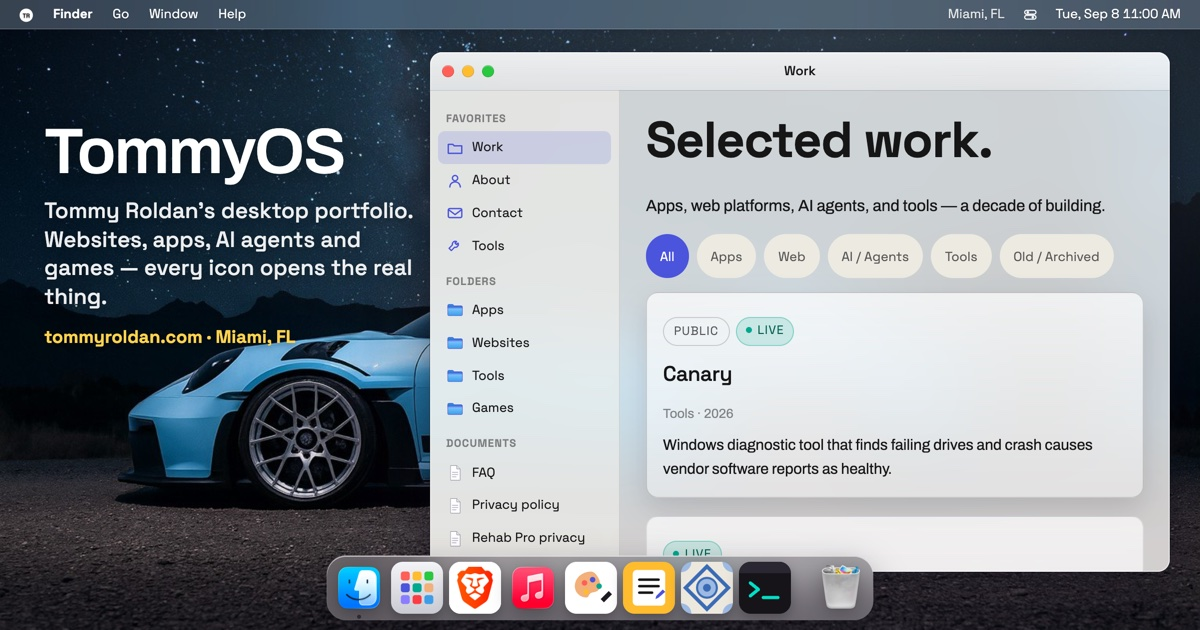
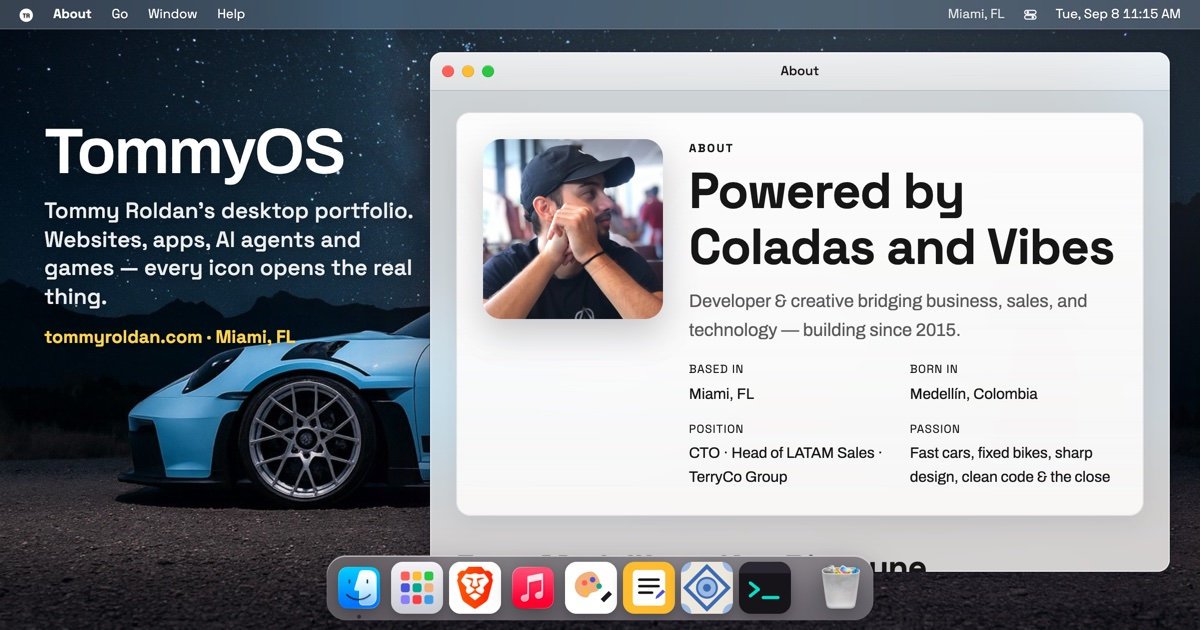
OG card: About window open so the card shows Tommy

diff --git a/site/faq/index.html b/site/faq/index.html
@@ -4,7 +4,7 @@
 <meta name="description" content="Cost, timelines, Shopify, apps, AI agents, Spanish — the questions people ask before starting a project with a Miami web developer.">
 <meta property="og:type" content="website"><meta property="og:site_name" content="TommyOS — Tommy Roldan">
 <meta property="og:title" content="FAQ — Working with Tommy Roldan"><meta property="og:description" content="Cost, timelines, Shopify, apps, AI agents, Spanish — the questions people ask before starting a project with a Miami web developer.">
-<meta property="og:image" content="https://tommyroldan.com/assets/og/tommyos.jpg"><meta property="og:image:width" content="1200"><meta property="og:image:height" content="630"><meta property="og:image:alt" content="TommyOS — Tommy Roldan’s desktop portfolio: a Mac-style desktop with a Work window open and the dock"><meta property="og:url" content="https://tommyroldan.com/faq/">
+<meta property="og:image" content="https://tommyroldan.com/assets/og/tommyos.jpg"><meta property="og:image:width" content="1200"><meta property="og:image:height" content="630"><meta property="og:image:alt" content="TommyOS — Tommy Roldan’s desktop portfolio: a Mac-style desktop with the About window open, Tommy’s photo, and the dock"><meta property="og:url" content="https://tommyroldan.com/faq/">
 <meta name="twitter:card" content="summary_large_image"><meta name="twitter:title" content="FAQ — Working with Tommy Roldan"><meta name="twitter:description" content="Cost, timelines, Shopify, apps, AI agents, Spanish — the questions people ask before starting a project with a Miami web developer."><meta name="twitter:image" content="https://tommyroldan.com/assets/og/tommyos.jpg">
 <script type="application/ld+json">{"@context": "https://schema.org", "@type": "FAQPage", "mainEntity": [{"@type": "Question", "name": "Who builds websites for small businesses in Miami?", "acceptedAnswer": {"@type": "Answer", "text": "I'm Tommy Roldan, a web developer and designer based in Miami, Florida. I build websites, e-commerce stores, mobile apps, and AI agents for startups and small businesses, and I've been shipping production work since 2015."}}, {"@type": "Question", "name": "What kind of projects do you take on?", "acceptedAnswer": {"@type": "Answer", "text": "Four kinds: fast marketing websites, e-commerce and Shopify storefronts, iOS and Android apps, and custom AI agents and workflow automation. If it lives on the web or in an app store, it is probably in scope."}}, {"@type": "Question", "name": "How much does a website cost?", "acceptedAnswer": {"@type": "Answer", "text": "It depends on scope, because a marketing site, a Shopify storefront, and a custom web app are very different builds. Tell me what you have in mind through the contact form and you will get a straight answer on scope and cost before anything starts."}}, {"@type": "Question", "name": "How long does it take to build a website?", "acceptedAnswer": {"@type": "Answer", "text": "Timeline follows scope and how quickly content and feedback come back. A focused marketing site moves faster than an e-commerce build or a custom application. Share your deadline when you reach out and I will tell you honestly whether it is realistic."}}, {"@type": "Question", "name": "Do you build Shopify stores?", "acceptedAnswer": {"@type": "Answer", "text": "Yes. I build and customize Shopify storefronts, including custom theme work, product and checkout flows, and the brand design around them. Dolce Vita Supplements is a live Shopify build of mine."}}, {"@type": "Question", "name": "Do you build mobile apps for iOS and Android?", "acceptedAnswer": {"@type": "Answer", "text": "Yes, both from a single codebase using React Native and Expo. Clear Care Dental is a full-stack dental benefits platform built this way, where members find in-network dentists, track plan usage, and book visits from one cross-platform app."}}, {"@type": "Question", "name": "What is an AI agent, and do you build them?", "acceptedAnswer": {"@type": "Answer", "text": "An AI agent is software that carries out multi-step work on its own instead of only answering a question, such as researching, calling APIs, and updating your systems. Yes, I build custom agents and workflow automation, including a voice agent that handles live phone conversations."}}, {"@type": "Question", "name": "Can you redesign or take over an existing website?", "acceptedAnswer": {"@type": "Answer", "text": "Yes, redesigns and rebuilds are a regular part of the work. NST Pharma and World Resort Rescue were both full redesigns of existing sites, rebuilt for structure, speed, and how they read on phones."}}, {"@type": "Question", "name": "Do you work with Spanish-speaking clients?", "acceptedAnswer": {"@type": "Answer", "text": "Yes. I am fluent in English and Spanish, so the whole project can run in either language, and this site is published in both. For Miami businesses serving bilingual customers, I can build the site that way too."}}, {"@type": "Question", "name": "Are you available for new projects?", "acceptedAnswer": {"@type": "Answer", "text": "Yes, I am currently taking on new projects. The fastest way to start is the contact form, where you can outline the project, the type of build, and your budget range."}}]}</script>
 <link href="https://fonts.googleapis.com/css2?family=Space+Grotesk:wght@400;500;700&family=Archivo:wght@400;500;600&display=swap" rel="stylesheet">

diff --git a/site/index.html b/site/index.html
@@ -13,7 +13,7 @@
 <meta name="description" content="TommyOS is Tommy Roldan’s portfolio as a desktop: websites, apps, Shopify stores, AI agents and games, every icon opening the real thing. Freelance Miami web developer, available for hire.">
 <meta property="og:type" content="website"><meta property="og:site_name" content="TommyOS — Tommy Roldan">
 <meta property="og:title" content="TommyOS — the desktop portfolio of Tommy Roldan"><meta property="og:description" content="A Mac-style desktop in the browser. Open the Work folder for websites, apps and AI agents built in Miami since 2015, play Lightwall or Trace, paint on the public wall. Every icon opens the real thing.">
-<meta property="og:image" content="https://tommyroldan.com/assets/og/tommyos.jpg"><meta property="og:image:width" content="1200"><meta property="og:image:height" content="630"><meta property="og:image:alt" content="TommyOS — Tommy Roldan’s desktop portfolio: a Mac-style desktop with a Work window open and the dock"><meta property="og:url" content="https://tommyroldan.com/">
+<meta property="og:image" content="https://tommyroldan.com/assets/og/tommyos.jpg"><meta property="og:image:width" content="1200"><meta property="og:image:height" content="630"><meta property="og:image:alt" content="TommyOS — Tommy Roldan’s desktop portfolio: a Mac-style desktop with the About window open, Tommy’s photo, and the dock"><meta property="og:url" content="https://tommyroldan.com/">
 <meta name="twitter:card" content="summary_large_image"><meta name="twitter:title" content="TommyOS — the desktop portfolio of Tommy Roldan"><meta name="twitter:description" content="A Mac-style desktop in the browser: websites, apps, AI agents and games by Tommy Roldan, Miami. Every icon opens the real thing."><meta name="twitter:image" content="https://tommyroldan.com/assets/og/tommyos.jpg">
 <script type="application/ld+json">{"@context": "https://schema.org", "@type": "Person", "name": "Tommy Roldan", "alternateName": "Tomas Roldan", "url": "https://tommyroldan.com", "image": "https://tommyroldan.com/images/tomcat.jpeg", "jobTitle": "Web Developer & Creative", "email": "mailto:troldan@terryco.com", "description": "Miami-based developer and builder shipping apps, web platforms, and AI agents — from dental healthtech to autonomous tools.", "address": {"@type": "PostalAddress", "addressLocality": "Miami", "addressRegion": "FL", "addressCountry": "US"}, "knowsAbout": ["Web Development", "React", "React Native", "AI Agents", "Node.js", "Product Design", "Strategic Sales", "E-commerce"], "sameAs": ["https://www.linkedin.com/in/tommy-roldan/", "https://github.com/TmasLove", "https://instagram.com/tomcat.png", "https://www.strava.com/athletes/14197229", "https://music.apple.com/profile/tmizle", "https://steamcommunity.com/id/shlumplord/"]}</script><script type="application/ld+json">{"@context": "https://schema.org", "@type": "WebSite", "name": "TommyOS", "alternateName": ["Tommy Roldan — Portfolio", "tommyroldan.com"], "url": "https://tommyroldan.com", "description": "Tommy Roldan’s portfolio presented as a desktop operating system in the browser.", "author": {"@type": "Person", "name": "Tommy Roldan"}}</script>
 <script type="application/ld+json">{"@context": "https://schema.org", "@type": "WebApplication", "name": "TommyOS", "url": "https://tommyroldan.com", "applicationCategory": "Portfolio", "operatingSystem": "Any (browser)", "browserRequirements": "Requires JavaScript", "offers": {"@type": "Offer", "price": "0", "priceCurrency": "USD"}, "image": "https://tommyroldan.com/assets/og/tommyos.jpg", "author": {"@type": "Person", "name": "Tommy Roldan"}, "featureList": ["Mac-style desktop with windows, dock, Launchpad and Spotlight", "iPhone-style home screen on phones", "Work folder: websites, apps, e-commerce and AI agents", "Games: Lightwall (light cycles), Brick Breaker, Meme Maker, Paint with Trace", "Public wall: paint and post without sign-up", "Free browser tools"]}</script><script type="application/ld+json">{"@context": "https://schema.org", "@type": "ProfessionalService", "name": "Tommy Roldan — Web Development & Design", "image": "https://tommyroldan.com/assets/og/tommyos.jpg", "url": "https://tommyroldan.com", "priceRange": "$$", "founder": {"@type": "Person", "name": "Tommy Roldan"}, "address": {"@type": "PostalAddress", "addressLocality": "Miami", "addressRegion": "FL", "addressCountry": "US"}, "areaServed": [{"@type": "City", "name": "Miami"}, {"@type": "AdministrativeArea", "name": "Florida"}, "Remote / Worldwide"], "serviceType": ["Web development", "React & React Native app development", "E-commerce and Shopify development", "AI agents and automation", "Web design"]}</script>

diff --git a/site/work/build-roldan/index.html b/site/work/build-roldan/index.html
@@ -5,7 +5,7 @@
 <meta name="description" content="Site for a family exterior construction and remodelling business, built to turn homeowner interest into booked work. Includes Pool Vision, an AI feature that lets a visitor picture the finished result on their own property, plus a CMS for the team to run it themselves.">
 <meta property="og:type" content="website"><meta property="og:site_name" content="TommyOS — Tommy Roldan">
 <meta property="og:title" content="Roldan Construction Group"><meta property="og:description" content="Site for a family exterior construction and remodelling business, built to turn homeowner interest into booked work. Includes Pool Vision, an AI feature that lets a visitor picture the finished result on their own property, plus a CMS for the team to run it themselves.">
-<meta property="og:image" content="https://tommyroldan.com/assets/og/tommyos.jpg"><meta property="og:image:width" content="1200"><meta property="og:image:height" content="630"><meta property="og:image:alt" content="TommyOS — Tommy Roldan’s desktop portfolio: a Mac-style desktop with a Work window open and the dock"><meta property="og:url" content="https://tommyroldan.com/work/build-roldan/">
+<meta property="og:image" content="https://tommyroldan.com/assets/og/tommyos.jpg"><meta property="og:image:width" content="1200"><meta property="og:image:height" content="630"><meta property="og:image:alt" content="TommyOS — Tommy Roldan’s desktop portfolio: a Mac-style desktop with the About window open, Tommy’s photo, and the dock"><meta property="og:url" content="https://tommyroldan.com/work/build-roldan/">
 <meta name="twitter:card" content="summary_large_image"><meta name="twitter:title" content="Roldan Construction Group"><meta name="twitter:description" content="Site for a family exterior construction and remodelling business, built to turn homeowner interest into booked work. Includes Pool Vision, an AI feature that lets a visitor picture the finished result on their own property, plus a CMS for the team to run it themselves."><meta name="twitter:image" content="https://tommyroldan.com/assets/og/tommyos.jpg">
 <script type="application/ld+json">{"@context": "https://schema.org", "@type": "CreativeWork", "name": "Roldan Group", "url": "https://tommyroldan.com/work/build-roldan/", "description": "Site for a family exterior construction and remodelling business, built to turn homeowner interest into booked work. Includes Pool Vision, an AI feature that lets a visitor picture the finished result on their own property, plus a CMS for the team to run it themselves.", "author": {"@type": "Person", "name": "Tommy Roldan", "url": "https://tommyroldan.com"}, "creator": {"@type": "Person", "name": "Tommy Roldan"}, "sameAs": "https://buildroldan.com", "mainEntityOfPage": "https://buildroldan.com"}</script>
 </head><body>

diff --git a/site/work/canary/index.html b/site/work/canary/index.html
@@ -5,7 +5,7 @@
 <meta name="description" content="Windows diagnostic tool that finds failing drives and crash causes vendor software reports as healthy. Reads the SMART counters other tools skip, explains every finding in plain English, and says &quot;could not verify&quot; rather than pretending a check passed.">
 <meta property="og:type" content="website"><meta property="og:site_name" content="TommyOS — Tommy Roldan">
 <meta property="og:title" content="Canary — Free Windows Diagnostic Tool"><meta property="og:description" content="Windows diagnostic tool that finds failing drives and crash causes vendor software reports as healthy. Reads the SMART counters other tools skip, explains every finding in plain English, and says &quot;could not verify&quot; rather than pretending a check passed.">
-<meta property="og:image" content="https://tommyroldan.com/assets/og/tommyos.jpg"><meta property="og:image:width" content="1200"><meta property="og:image:height" content="630"><meta property="og:image:alt" content="TommyOS — Tommy Roldan’s desktop portfolio: a Mac-style desktop with a Work window open and the dock"><meta property="og:url" content="https://tommyroldan.com/work/canary/">
+<meta property="og:image" content="https://tommyroldan.com/assets/og/tommyos.jpg"><meta property="og:image:width" content="1200"><meta property="og:image:height" content="630"><meta property="og:image:alt" content="TommyOS — Tommy Roldan’s desktop portfolio: a Mac-style desktop with the About window open, Tommy’s photo, and the dock"><meta property="og:url" content="https://tommyroldan.com/work/canary/">
 <meta name="twitter:card" content="summary_large_image"><meta name="twitter:title" content="Canary — Free Windows Diagnostic Tool"><meta name="twitter:description" content="Windows diagnostic tool that finds failing drives and crash causes vendor software reports as healthy. Reads the SMART counters other tools skip, explains every finding in plain English, and says &quot;could not verify&quot; rather than pretending a check passed."><meta name="twitter:image" content="https://tommyroldan.com/assets/og/tommyos.jpg">
 <script type="application/ld+json">{"@context": "https://schema.org", "@type": "CreativeWork", "name": "Canary", "url": "https://tommyroldan.com/work/canary/", "description": "Windows diagnostic tool that finds failing drives and crash causes vendor software reports as healthy. Reads the SMART counters other tools skip, explains every finding in plain English, and says \"could not verify\" rather than pretending a check passed.", "author": {"@type": "Person", "name": "Tommy Roldan", "url": "https://tommyroldan.com"}, "creator": {"@type": "Person", "name": "Tommy Roldan"}, "sameAs": "https://tommyroldan.com/canary/", "mainEntityOfPage": "https://tommyroldan.com/canary/"}</script>
 </head><body>

diff --git a/site/work/versatile-customs/index.html b/site/work/versatile-customs/index.html
@@ -5,7 +5,7 @@
 <meta name="description" content="Storefront for a vehicle wrap studio, built around the 3D visualizer I developed for the shop. Customers design a wrap in the browser, browse films and services, and book the job or check out - PPF, colour-change wraps, ceramic tint and lighting all in one flow.">
 <meta property="og:type" content="website"><meta property="og:site_name" content="TommyOS — Tommy Roldan">
 <meta property="og:title" content="Versatile Customs"><meta property="og:description" content="Storefront for a vehicle wrap studio, built around the 3D visualizer I developed for the shop. Customers design a wrap in the browser, browse films and services, and book the job or check out - PPF, colour-change wraps, ceramic tint and lighting all in one flow.">
-<meta property="og:image" content="https://tommyroldan.com/assets/og/tommyos.jpg"><meta property="og:image:width" content="1200"><meta property="og:image:height" content="630"><meta property="og:image:alt" content="TommyOS — Tommy Roldan’s desktop portfolio: a Mac-style desktop with a Work window open and the dock"><meta property="og:url" content="https://tommyroldan.com/work/versatile-customs/">
+<meta property="og:image" content="https://tommyroldan.com/assets/og/tommyos.jpg"><meta property="og:image:width" content="1200"><meta property="og:image:height" content="630"><meta property="og:image:alt" content="TommyOS — Tommy Roldan’s desktop portfolio: a Mac-style desktop with the About window open, Tommy’s photo, and the dock"><meta property="og:url" content="https://tommyroldan.com/work/versatile-customs/">
 <meta name="twitter:card" content="summary_large_image"><meta name="twitter:title" content="Versatile Customs"><meta name="twitter:description" content="Storefront for a vehicle wrap studio, built around the 3D visualizer I developed for the shop. Customers design a wrap in the browser, browse films and services, and book the job or check out - PPF, colour-change wraps, ceramic tint and lighting all in one flow."><meta name="twitter:image" content="https://tommyroldan.com/assets/og/tommyos.jpg">
 <script type="application/ld+json">{"@context": "https://schema.org", "@type": "CreativeWork", "name": "Versatile Customs", "url": "https://tommyroldan.com/work/versatile-customs/", "description": "Storefront for a vehicle wrap studio, built around the 3D visualizer I developed for the shop. Customers design a wrap in the browser, browse films and services, and book the job or check out - PPF, colour-change wraps, ceramic tint and lighting all in one flow.", "author": {"@type": "Person", "name": "Tommy Roldan", "url": "https://tommyroldan.com"}, "creator": {"@type": "Person", "name": "Tommy Roldan"}, "sameAs": "https://versatilecustom.com", "mainEntityOfPage": "https://versatilecustom.com"}</script>
 </head><body>

diff --git a/site/work/wrapme/index.html b/site/work/wrapme/index.html
@@ -5,7 +5,7 @@
 <meta name="description" content="Real-time 3D configurator for wrap and paint shops. Customers orbit their own car in the browser, try real films across six independently painted zones, and send the shop the exact build - rendered live in WebGL, no AI and no guesswork.">
 <meta property="og:type" content="website"><meta property="og:site_name" content="TommyOS — Tommy Roldan">
 <meta property="og:title" content="WrapMe — 3D Vinyl Wrap Configurator"><meta property="og:description" content="Real-time 3D configurator for wrap and paint shops. Customers orbit their own car in the browser, try real films across six independently painted zones, and send the shop the exact build - rendered live in WebGL, no AI and no guesswork.">
-<meta property="og:image" content="https://tommyroldan.com/assets/og/tommyos.jpg"><meta property="og:image:width" content="1200"><meta property="og:image:height" content="630"><meta property="og:image:alt" content="TommyOS — Tommy Roldan’s desktop portfolio: a Mac-style desktop with a Work window open and the dock"><meta property="og:url" content="https://tommyroldan.com/work/wrapme/">
+<meta property="og:image" content="https://tommyroldan.com/assets/og/tommyos.jpg"><meta property="og:image:width" content="1200"><meta property="og:image:height" content="630"><meta property="og:image:alt" content="TommyOS — Tommy Roldan’s desktop portfolio: a Mac-style desktop with the About window open, Tommy’s photo, and the dock"><meta property="og:url" content="https://tommyroldan.com/work/wrapme/">
 <meta name="twitter:card" content="summary_large_image"><meta name="twitter:title" content="WrapMe — 3D Vinyl Wrap Configurator"><meta name="twitter:description" content="Real-time 3D configurator for wrap and paint shops. Customers orbit their own car in the browser, try real films across six independently painted zones, and send the shop the exact build - rendered live in WebGL, no AI and no guesswork."><meta name="twitter:image" content="https://tommyroldan.com/assets/og/tommyos.jpg">
 <script type="application/ld+json">{"@context": "https://schema.org", "@type": "CreativeWork", "name": "WrapMe", "url": "https://tommyroldan.com/work/wrapme/", "description": "Real-time 3D configurator for wrap and paint shops. Customers orbit their own car in the browser, try real films across six independently painted zones, and send the shop the exact build - rendered live in WebGL, no AI and no guesswork.", "author": {"@type": "Person", "name": "Tommy Roldan", "url": "https://tommyroldan.com"}, "creator": {"@type": "Person", "name": "Tommy Roldan"}, "sameAs": "https://wrapme.app", "mainEntityOfPage": "https://wrapme.app"}</script>
 </head><body>

diff --git a/site/about/index.html b/site/about/index.html
@@ -5,7 +5,7 @@
 <meta name="description" content="Powered by Coladas and Vibes. Developer &amp; creative bridging business, sales, and technology — building since 2015.">
 <meta property="og:type" content="website"><meta property="og:site_name" content="TommyOS — Tommy Roldan">
 <meta property="og:title" content="About Tommy Roldan — Miami Developer Since 2015"><meta property="og:description" content="Powered by Coladas and Vibes. Developer &amp; creative bridging business, sales, and technology — building since 2015.">
-<meta property="og:image" content="https://tommyroldan.com/assets/og/tommyos.jpg"><meta property="og:image:width" content="1200"><meta property="og:image:height" content="630"><meta property="og:image:alt" content="TommyOS — Tommy Roldan’s desktop portfolio: a Mac-style desktop with a Work window open and the dock"><meta property="og:url" content="https://tommyroldan.com/about/">
+<meta property="og:image" content="https://tommyroldan.com/assets/og/tommyos.jpg"><meta property="og:image:width" content="1200"><meta property="og:image:height" content="630"><meta property="og:image:alt" content="TommyOS — Tommy Roldan’s desktop portfolio: a Mac-style desktop with the About window open, Tommy’s photo, and the dock"><meta property="og:url" content="https://tommyroldan.com/about/">
 <meta name="twitter:card" content="summary_large_image"><meta name="twitter:title" content="About Tommy Roldan — Miami Developer Since 2015"><meta name="twitter:description" content="Powered by Coladas and Vibes. Developer &amp; creative bridging business, sales, and technology — building since 2015."><meta name="twitter:image" content="https://tommyroldan.com/assets/og/tommyos.jpg">
 <script type="application/ld+json">{"@context": "https://schema.org", "@type": "Person", "name": "Tommy Roldan", "alternateName": "Tomas Roldan", "url": "https://tommyroldan.com", "image": "https://tommyroldan.com/images/tomcat.jpeg", "jobTitle": "Web Developer & Creative", "email": "mailto:troldan@terryco.com", "description": "Miami-based developer and builder shipping apps, web platforms, and AI agents — from dental healthtech to autonomous tools.", "address": {"@type": "PostalAddress", "addressLocality": "Miami", "addressRegion": "FL", "addressCountry": "US"}, "knowsAbout": ["Web Development", "React", "React Native", "AI Agents", "Node.js", "Product Design", "Strategic Sales", "E-commerce"], "sameAs": ["https://www.linkedin.com/in/tommy-roldan/", "https://github.com/TmasLove", "https://instagram.com/tomcat.png", "https://www.strava.com/athletes/14197229", "https://music.apple.com/profile/tmizle", "https://steamcommunity.com/id/shlumplord/"]}</script>
 </head><body>

diff --git a/site/work/cleancare-enterprise/index.html b/site/work/cleancare-enterprise/index.html
@@ -5,7 +5,7 @@
 <meta name="description" content="Enterprise dashboard powering the Clear Care platform. Handles benefits administration, member management, and practice operations at scale through a fast, data-dense React interface.">
 <meta property="og:type" content="website"><meta property="og:site_name" content="TommyOS — Tommy Roldan">
 <meta property="og:title" content="Clear Care Dental Enterprise"><meta property="og:description" content="Enterprise dashboard powering the Clear Care platform. Handles benefits administration, member management, and practice operations at scale through a fast, data-dense React interface.">
-<meta property="og:image" content="https://tommyroldan.com/assets/og/tommyos.jpg"><meta property="og:image:width" content="1200"><meta property="og:image:height" content="630"><meta property="og:image:alt" content="TommyOS — Tommy Roldan’s desktop portfolio: a Mac-style desktop with a Work window open and the dock"><meta property="og:url" content="https://tommyroldan.com/work/cleancare-enterprise/">
+<meta property="og:image" content="https://tommyroldan.com/assets/og/tommyos.jpg"><meta property="og:image:width" content="1200"><meta property="og:image:height" content="630"><meta property="og:image:alt" content="TommyOS — Tommy Roldan’s desktop portfolio: a Mac-style desktop with the About window open, Tommy’s photo, and the dock"><meta property="og:url" content="https://tommyroldan.com/work/cleancare-enterprise/">
 <meta name="twitter:card" content="summary_large_image"><meta name="twitter:title" content="Clear Care Dental Enterprise"><meta name="twitter:description" content="Enterprise dashboard powering the Clear Care platform. Handles benefits administration, member management, and practice operations at scale through a fast, data-dense React interface."><meta name="twitter:image" content="https://tommyroldan.com/assets/og/tommyos.jpg">
 <script type="application/ld+json">{"@context": "https://schema.org", "@type": "CreativeWork", "name": "Clear Care Dental's Enterprise Website", "url": "https://tommyroldan.com/work/cleancare-enterprise/", "description": "Enterprise dashboard powering the Clear Care platform. Handles benefits administration, member management, and practice operations at scale through a fast, data-dense React interface.", "author": {"@type": "Person", "name": "Tommy Roldan", "url": "https://tommyroldan.com"}, "creator": {"@type": "Person", "name": "Tommy Roldan"}, "sameAs": "https://clearcaredentalenterprise.com/", "mainEntityOfPage": "https://clearcaredentalenterprise.com/"}</script>
 </head><body>

diff --git a/site/work/clear-care-dental/index.html b/site/work/clear-care-dental/index.html
@@ -5,7 +5,7 @@
 <meta name="description" content="Full-stack dental benefits platform built with React Native and Expo. Members find in-network dentists, track plan usage in real time, and book visits — all from one cross-platform app.">
 <meta property="og:type" content="website"><meta property="og:site_name" content="TommyOS — Tommy Roldan">
 <meta property="og:title" content="Clear Care Dental — App"><meta property="og:description" content="Full-stack dental benefits platform built with React Native and Expo. Members find in-network dentists, track plan usage in real time, and book visits — all from one cross-platform app.">
-<meta property="og:image" content="https://tommyroldan.com/assets/og/tommyos.jpg"><meta property="og:image:width" content="1200"><meta property="og:image:height" content="630"><meta property="og:image:alt" content="TommyOS — Tommy Roldan’s desktop portfolio: a Mac-style desktop with a Work window open and the dock"><meta property="og:url" content="https://tommyroldan.com/work/clear-care-dental/">
+<meta property="og:image" content="https://tommyroldan.com/assets/og/tommyos.jpg"><meta property="og:image:width" content="1200"><meta property="og:image:height" content="630"><meta property="og:image:alt" content="TommyOS — Tommy Roldan’s desktop portfolio: a Mac-style desktop with the About window open, Tommy’s photo, and the dock"><meta property="og:url" content="https://tommyroldan.com/work/clear-care-dental/">
 <meta name="twitter:card" content="summary_large_image"><meta name="twitter:title" content="Clear Care Dental — App"><meta name="twitter:description" content="Full-stack dental benefits platform built with React Native and Expo. Members find in-network dentists, track plan usage in real time, and book visits — all from one cross-platform app."><meta name="twitter:image" content="https://tommyroldan.com/assets/og/tommyos.jpg">
 <script type="application/ld+json">{"@context": "https://schema.org", "@type": "CreativeWork", "name": "Clear Care Dental", "url": "https://tommyroldan.com/work/clear-care-dental/", "description": "Full-stack dental benefits platform built with React Native and Expo. Members find in-network dentists, track plan usage in real time, and book visits — all from one cross-platform app.", "author": {"@type": "Person", "name": "Tommy Roldan", "url": "https://tommyroldan.com"}, "creator": {"@type": "Person", "name": "Tommy Roldan"}, "sameAs": "https://app.clearcaredentalgroup.com/login", "mainEntityOfPage": "https://app.clearcaredentalgroup.com/login"}</script>
 </head><body>

diff --git a/site/work/cleancare-marketing/index.html b/site/work/cleancare-marketing/index.html
@@ -5,7 +5,7 @@
 <meta name="description" content="Conversion-focused marketing site for the Clear Care Dental group. Tells the brand story, breaks down plan options, and funnels visitors smoothly into member sign-up.">
 <meta property="og:type" content="website"><meta property="og:site_name" content="TommyOS — Tommy Roldan">
 <meta property="og:title" content="Clear Care Dental — Dental coverage that doesn&#x27;t suck"><meta property="og:description" content="Conversion-focused marketing site for the Clear Care Dental group. Tells the brand story, breaks down plan options, and funnels visitors smoothly into member sign-up.">
-<meta property="og:image" content="https://tommyroldan.com/assets/og/tommyos.jpg"><meta property="og:image:width" content="1200"><meta property="og:image:height" content="630"><meta property="og:image:alt" content="TommyOS — Tommy Roldan’s desktop portfolio: a Mac-style desktop with a Work window open and the dock"><meta property="og:url" content="https://tommyroldan.com/work/cleancare-marketing/">
+<meta property="og:image" content="https://tommyroldan.com/assets/og/tommyos.jpg"><meta property="og:image:width" content="1200"><meta property="og:image:height" content="630"><meta property="og:image:alt" content="TommyOS — Tommy Roldan’s desktop portfolio: a Mac-style desktop with the About window open, Tommy’s photo, and the dock"><meta property="og:url" content="https://tommyroldan.com/work/cleancare-marketing/">
 <meta name="twitter:card" content="summary_large_image"><meta name="twitter:title" content="Clear Care Dental — Dental coverage that doesn&#x27;t suck"><meta name="twitter:description" content="Conversion-focused marketing site for the Clear Care Dental group. Tells the brand story, breaks down plan options, and funnels visitors smoothly into member sign-up."><meta name="twitter:image" content="https://tommyroldan.com/assets/og/tommyos.jpg">
 <script type="application/ld+json">{"@context": "https://schema.org", "@type": "CreativeWork", "name": "Clear Care Dental Group's Website", "url": "https://tommyroldan.com/work/cleancare-marketing/", "description": "Conversion-focused marketing site for the Clear Care Dental group. Tells the brand story, breaks down plan options, and funnels visitors smoothly into member sign-up.", "author": {"@type": "Person", "name": "Tommy Roldan", "url": "https://tommyroldan.com"}, "creator": {"@type": "Person", "name": "Tommy Roldan"}, "sameAs": "https://clearcaredentalgroup.com", "mainEntityOfPage": "https://clearcaredentalgroup.com"}</script>
 </head><body>

diff --git a/site/work/dolce-vita-supplements/index.html b/site/work/dolce-vita-supplements/index.html
@@ -5,7 +5,7 @@
 <meta name="description" content="Shopify e-commerce brand for sublingual SoulStrips supplements. Bold editorial storefront with science-backed storytelling, same-day Miami shipping, and a frictionless checkout.">
 <meta property="og:type" content="website"><meta property="og:site_name" content="TommyOS — Tommy Roldan">
 <meta property="og:title" content="Dolce Vita Supplements"><meta property="og:description" content="Shopify e-commerce brand for sublingual SoulStrips supplements. Bold editorial storefront with science-backed storytelling, same-day Miami shipping, and a frictionless checkout.">
-<meta property="og:image" content="https://tommyroldan.com/assets/og/tommyos.jpg"><meta property="og:image:width" content="1200"><meta property="og:image:height" content="630"><meta property="og:image:alt" content="TommyOS — Tommy Roldan’s desktop portfolio: a Mac-style desktop with a Work window open and the dock"><meta property="og:url" content="https://tommyroldan.com/work/dolce-vita-supplements/">
+<meta property="og:image" content="https://tommyroldan.com/assets/og/tommyos.jpg"><meta property="og:image:width" content="1200"><meta property="og:image:height" content="630"><meta property="og:image:alt" content="TommyOS — Tommy Roldan’s desktop portfolio: a Mac-style desktop with the About window open, Tommy’s photo, and the dock"><meta property="og:url" content="https://tommyroldan.com/work/dolce-vita-supplements/">
 <meta name="twitter:card" content="summary_large_image"><meta name="twitter:title" content="Dolce Vita Supplements"><meta name="twitter:description" content="Shopify e-commerce brand for sublingual SoulStrips supplements. Bold editorial storefront with science-backed storytelling, same-day Miami shipping, and a frictionless checkout."><meta name="twitter:image" content="https://tommyroldan.com/assets/og/tommyos.jpg">
 <script type="application/ld+json">{"@context": "https://schema.org", "@type": "CreativeWork", "name": "Dolce Vita Supplements", "url": "https://tommyroldan.com/work/dolce-vita-supplements/", "description": "Shopify e-commerce brand for sublingual SoulStrips supplements. Bold editorial storefront with science-backed storytelling, same-day Miami shipping, and a frictionless checkout.", "author": {"@type": "Person", "name": "Tommy Roldan", "url": "https://tommyroldan.com"}, "creator": {"@type": "Person", "name": "Tommy Roldan"}, "sameAs": "https://www.dolcevitasupplements.com/", "mainEntityOfPage": "https://www.dolcevitasupplements.com/"}</script>
 </head><body>

diff --git a/site/lightwall/index.html b/site/lightwall/index.html
@@ -2,7 +2,7 @@
 <meta name="description" content="Lightwall: a Tron-style light cycle arena in the browser. King of the Arena and King of the Zone on a big grid with eight riders, classic last-one-standing, two players on one keyboard, and a Survival ladder.">
 <meta property="og:type" content="website"><meta property="og:site_name" content="TommyOS — Tommy Roldan">
 <meta property="og:title" content="Lightwall — Tommy Roldan"><meta property="og:description" content="Lightwall: a Tron-style light cycle arena in the browser. King of the Arena and King of the Zone on a big grid with eight riders, classic last-one-standing, two players on one keyboard, and a Survival ladder.">
-<meta property="og:image" content="https://tommyroldan.com/assets/og/tommyos.jpg"><meta property="og:image:width" content="1200"><meta property="og:image:height" content="630"><meta property="og:image:alt" content="TommyOS — Tommy Roldan’s desktop portfolio: a Mac-style desktop with a Work window open and the dock"><meta property="og:url" content="https://tommyroldan.com/lightwall/">
+<meta property="og:image" content="https://tommyroldan.com/assets/og/tommyos.jpg"><meta property="og:image:width" content="1200"><meta property="og:image:height" content="630"><meta property="og:image:alt" content="TommyOS — Tommy Roldan’s desktop portfolio: a Mac-style desktop with the About window open, Tommy’s photo, and the dock"><meta property="og:url" content="https://tommyroldan.com/lightwall/">
 <meta name="twitter:card" content="summary_large_image"><meta name="twitter:title" content="Lightwall — Tommy Roldan"><meta name="twitter:description" content="Lightwall: a Tron-style light cycle arena in the browser. King of the Arena and King of the Zone on a big grid with eight riders, classic last-one-standing, two players on one keyboard, and a Survival ladder."><meta name="twitter:image" content="https://tommyroldan.com/assets/og/tommyos.jpg">
 
 </head><body><a class="cyc-back" href="/">← TOMMY ROLDAN</a><main class="cyc-seo"><h1>Lightwall</h1><p>A Tron-style light cycle arena in the browser: King of the Arena on a big grid against seven riders with respawns and kills, King of the Zone inside a shrinking circle, classic last-cycle-standing, two players on one keyboard, or the Survival ladder.</p></main><div class="game-host cyc-host cyc-full" id="game"></div><script src="/cycles3d.js?v=20260908n"></script><script src="/cycles.js?v=20260908n"></script><script>window.initCycles(document.getElementById("game"));</script></body></html>
